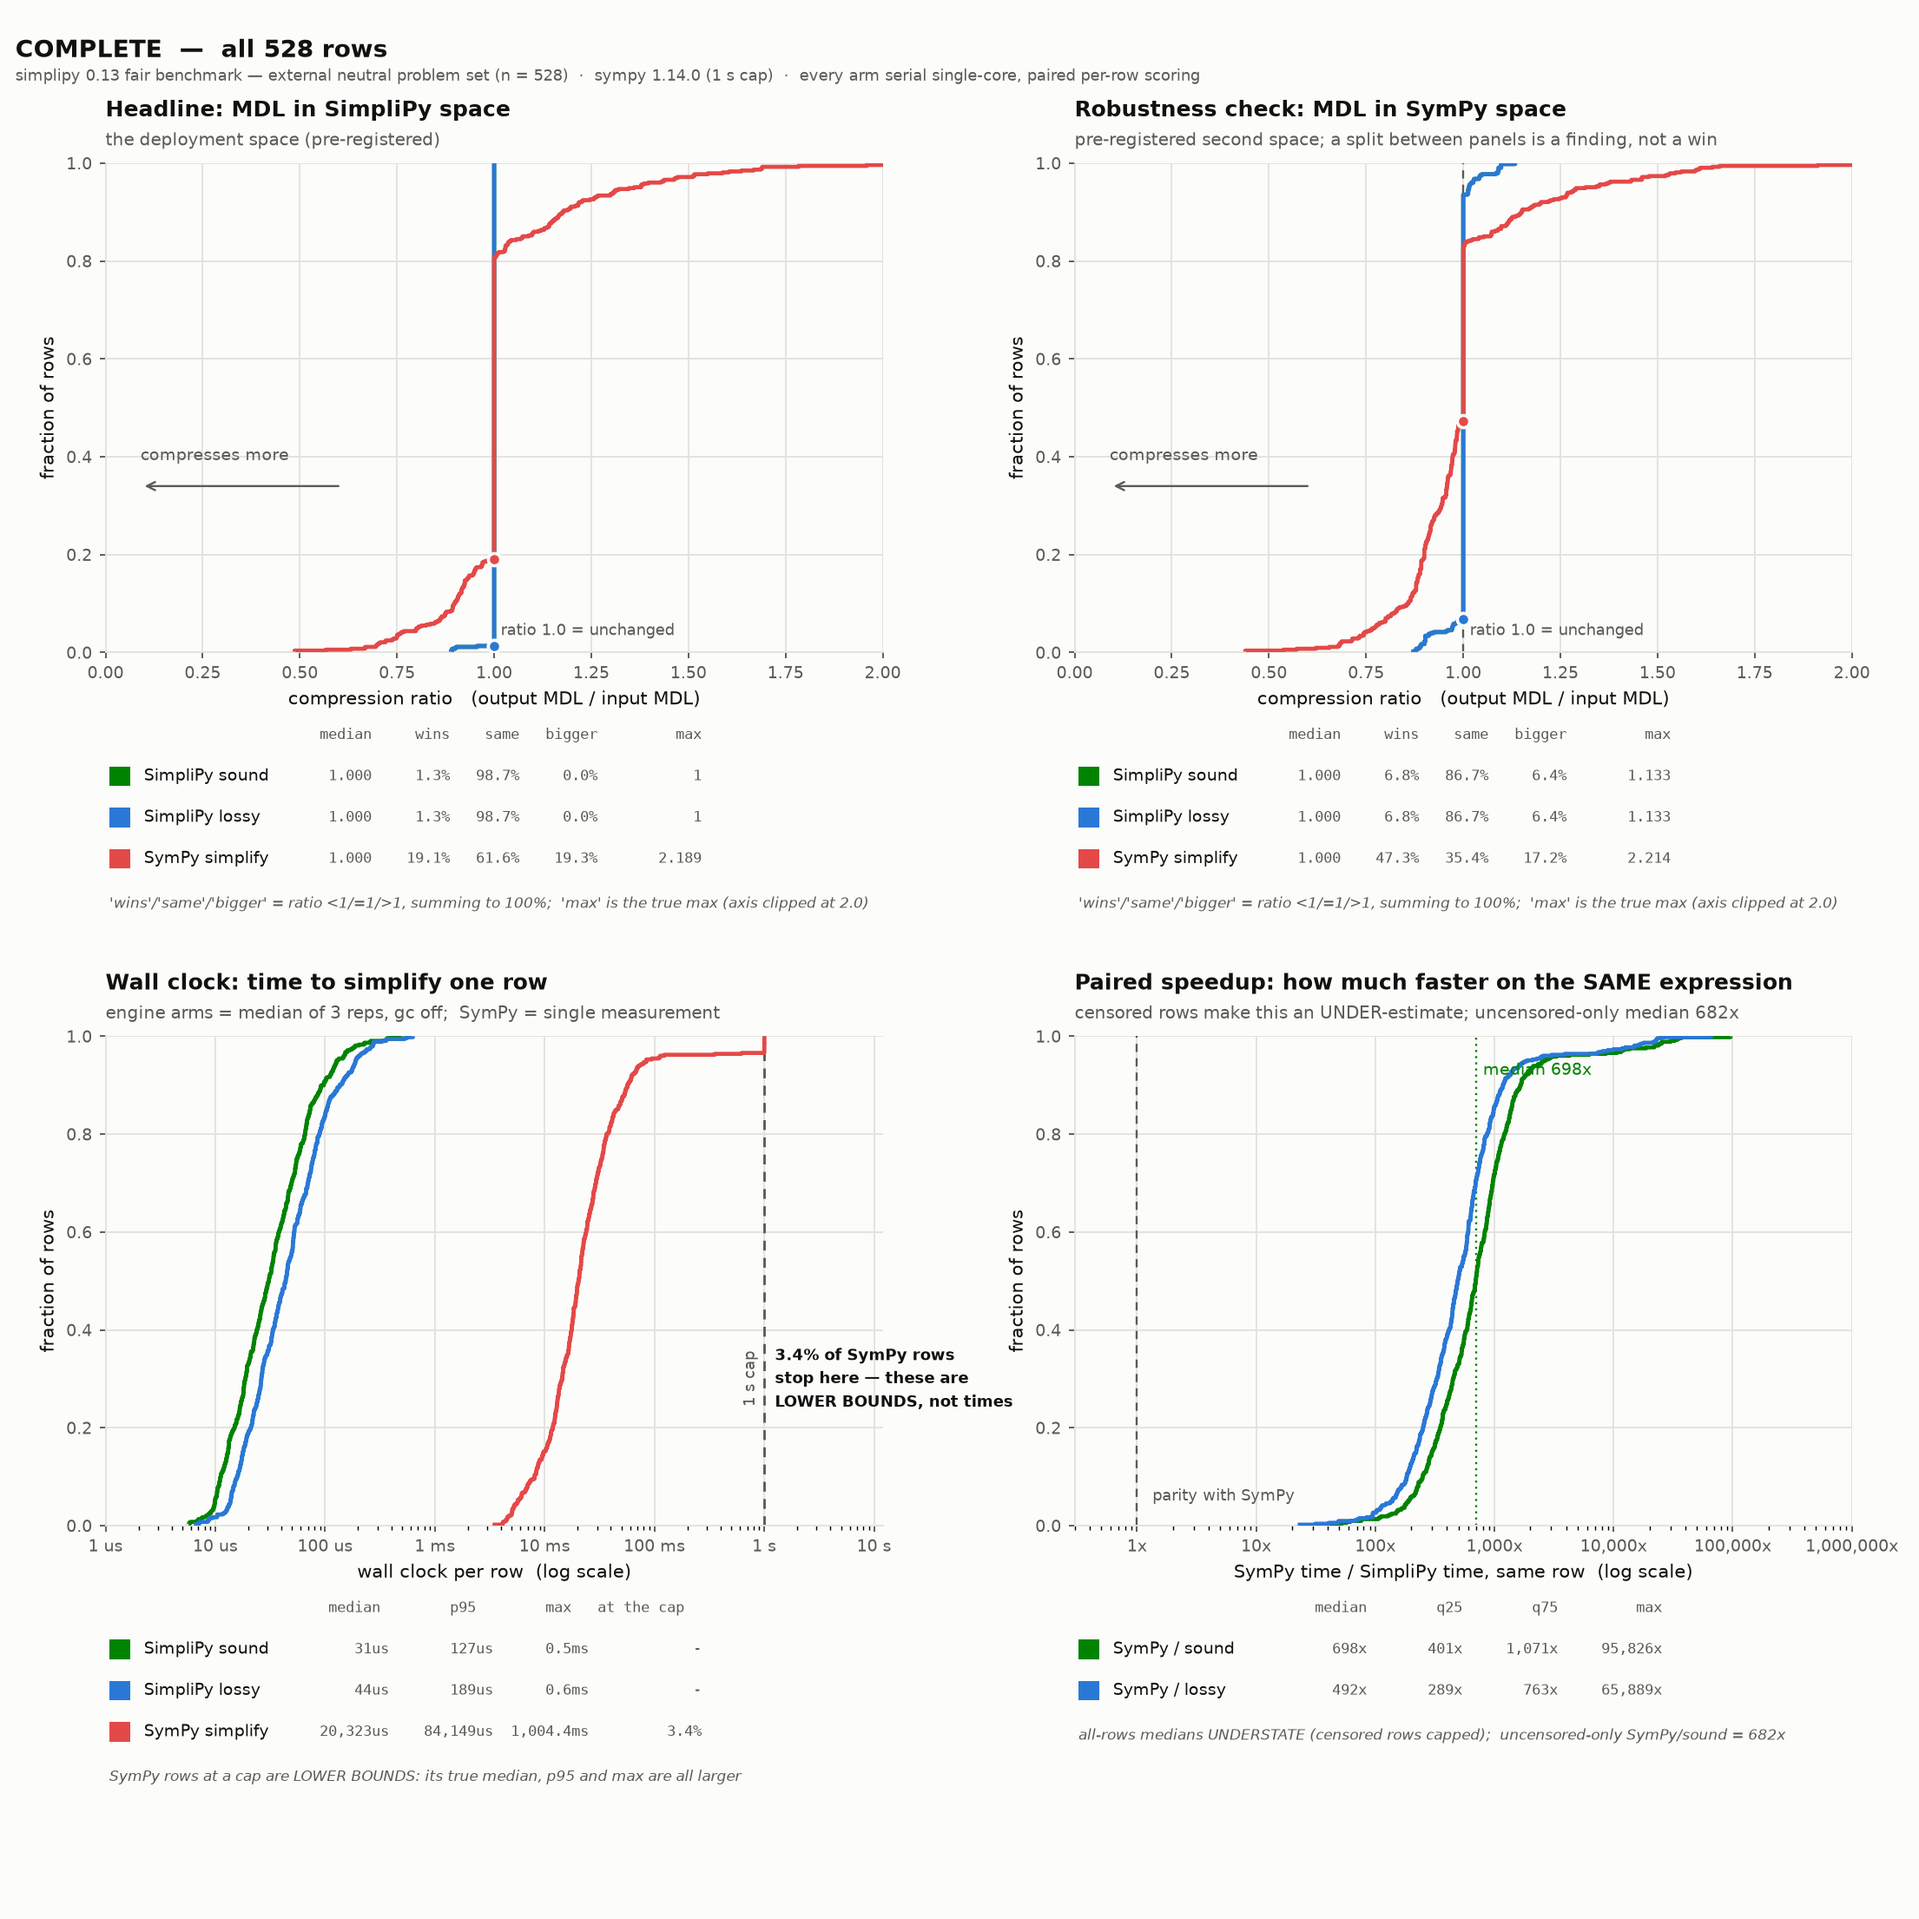
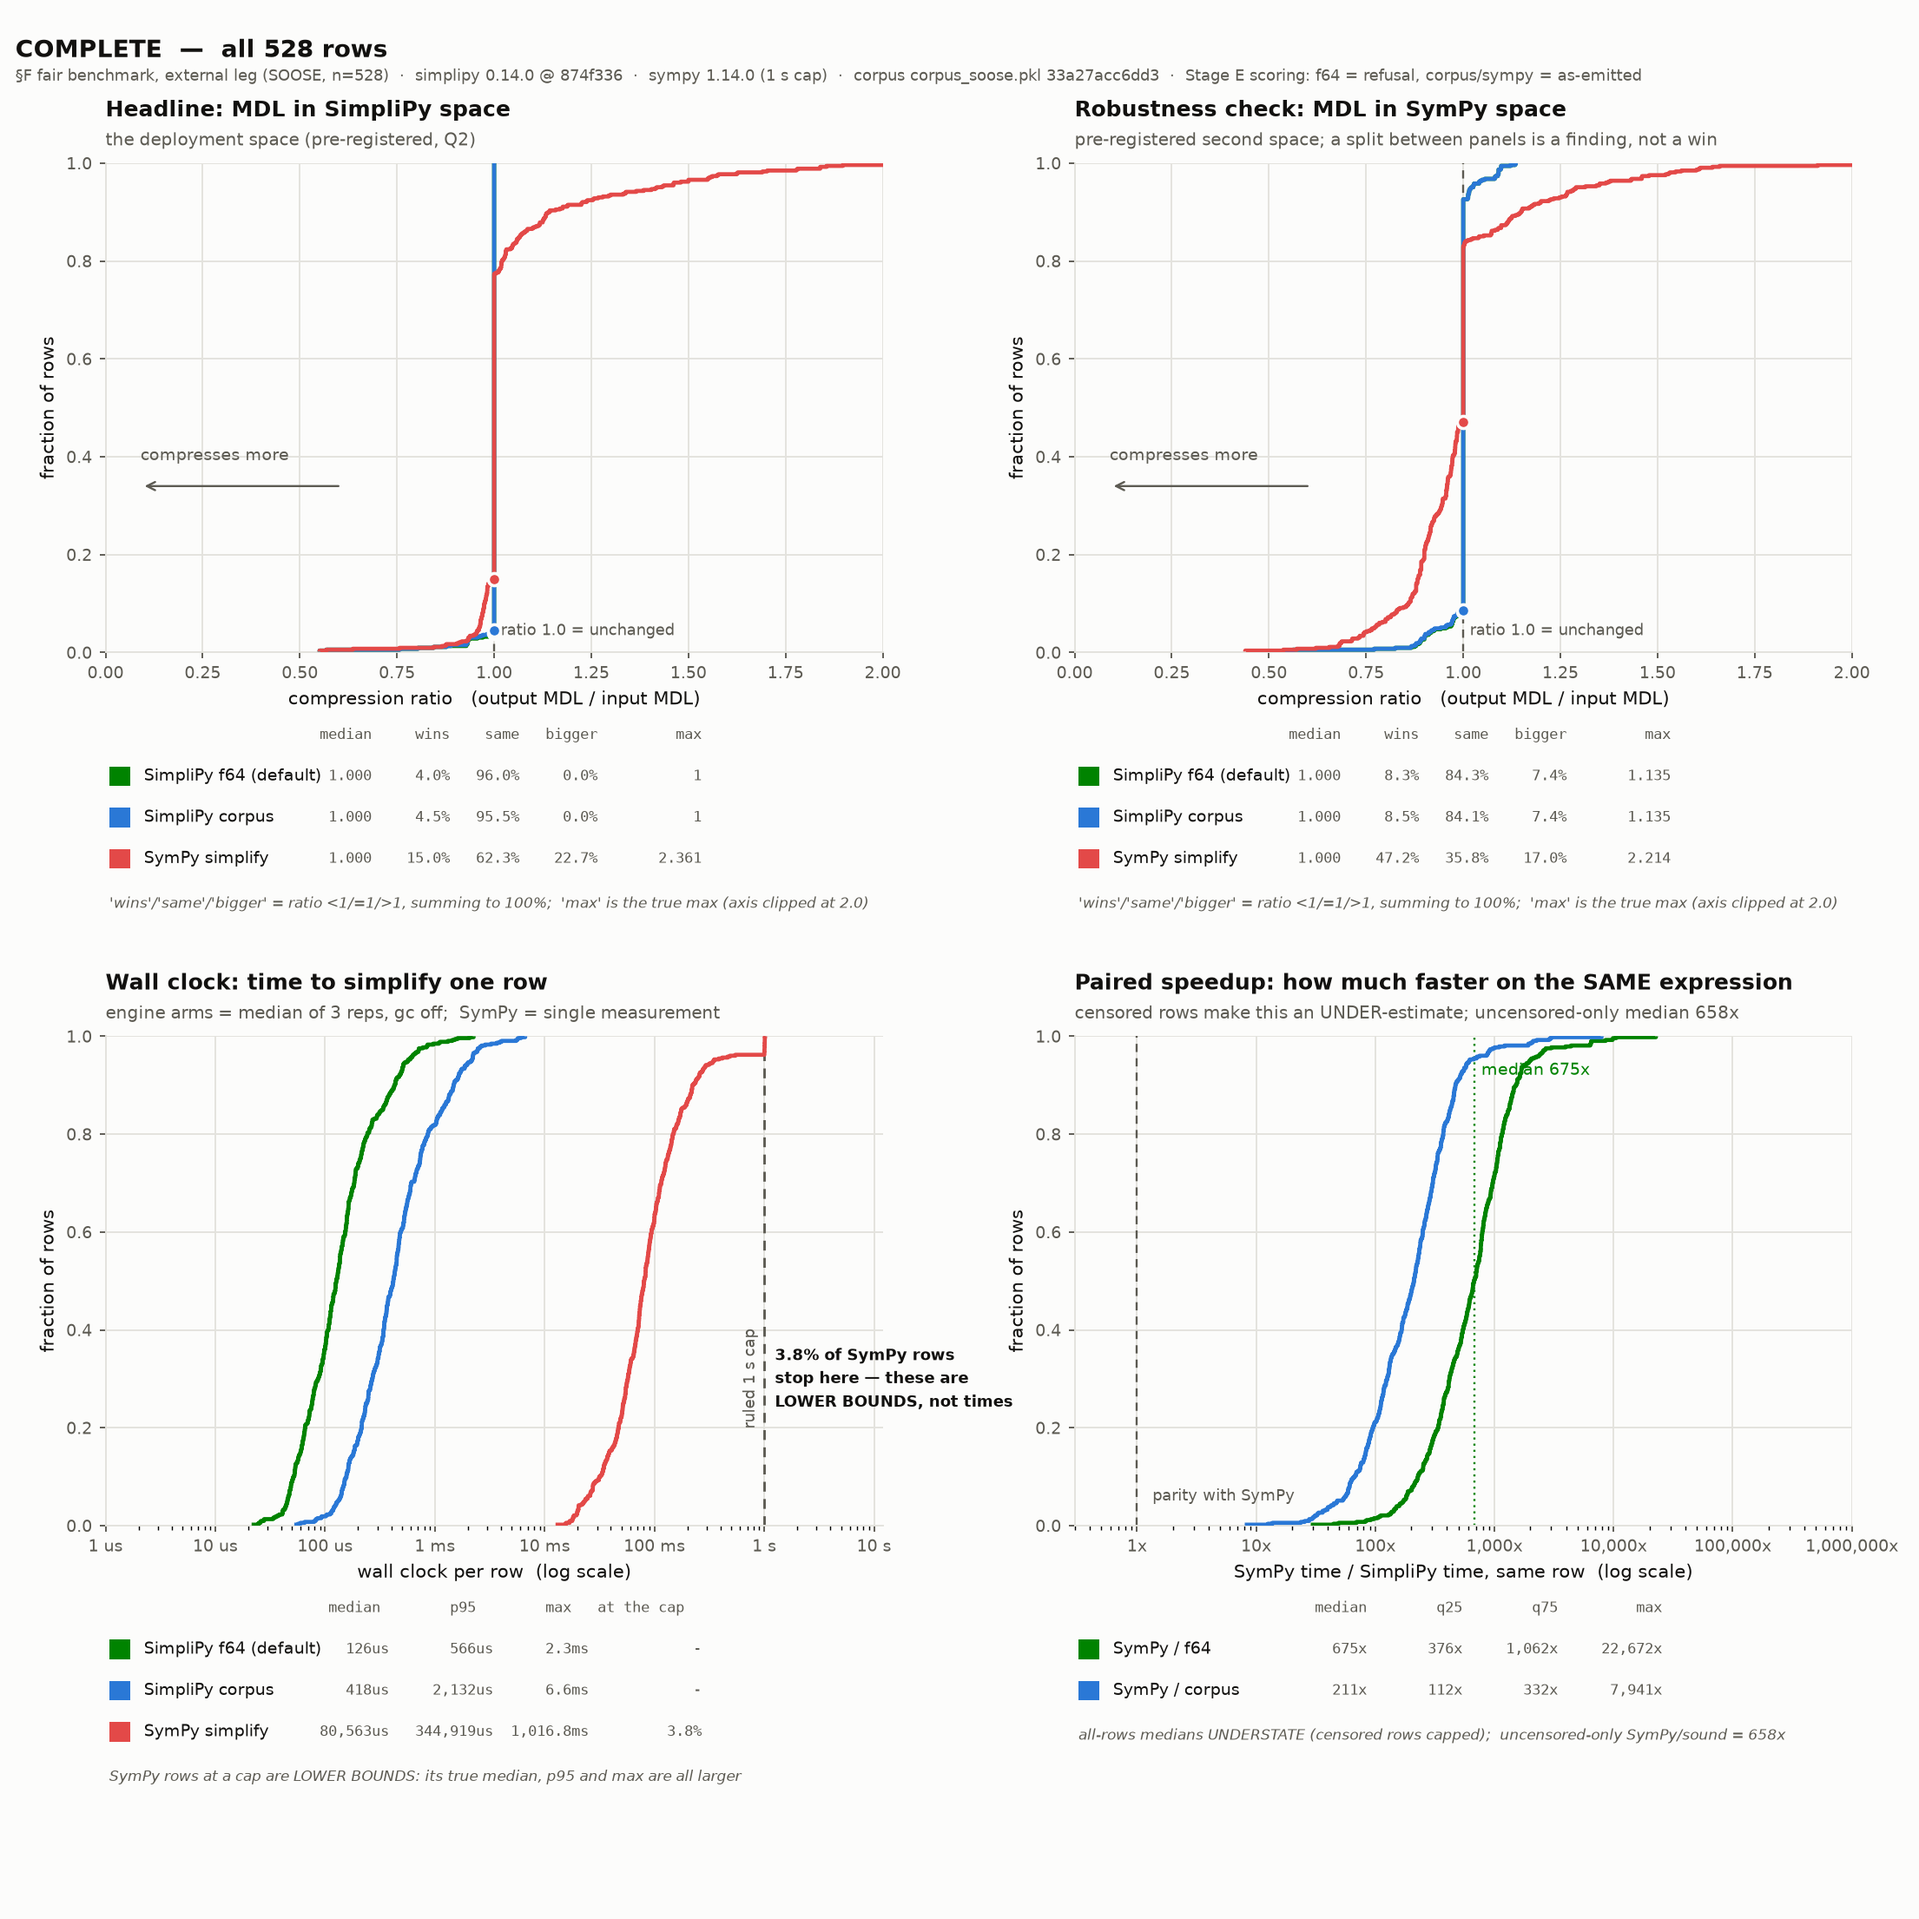
The cfg(test) callers of the mode-parameterized instrument, and rustfmt
cargo test compiles what maturin develop never does: six test-module
ac_complexity callers still used the one-argument signature. All six price
outputs for cross-arm comparison, which is the shared deployment measure --
RuleMode::Default at each. rustfmt over the soundness-round edits.

Claude-Session: https://claude.ai/code/session_01MktGcCWQs8zePRutL56sT4

diff --git a/rust/engine/ac.rs b/rust/engine/ac.rs
@@ -2625,10 +2625,17 @@ mod tests {
         // clears the clamp and cost(3) = 3 does not, so a square root prices BELOW a cube
         // root -- which is the measure telling two different operators apart, not a
         // parity being lost. (The pow1_3 spelling needs the sugar-declaring fixture.)
-        assert_eq!(sugar.ac_complexity(&t(&["pow1_3", "x0"]), RuleMode::Default), Some(15_000));
-        assert_eq!(e.ac_complexity(&t(&["rootn", "x0", "2"])), Some(14_585));
+        assert_eq!(
+            sugar.ac_complexity(&t(&["pow1_3", "x0"]), RuleMode::Default),
+            Some(15_000)
+        );
+        assert_eq!(
+            e.ac_complexity(&t(&["rootn", "x0", "2"]), RuleMode::Default),
+            Some(14_585)
+        );
         assert!(
-            e.ac_complexity(&t(&["rootn", "x0", "2"])) < e.ac_complexity(&t(&["rootn", "x0", "3"]))
+            e.ac_complexity(&t(&["rootn", "x0", "2"]), RuleMode::Default)
+                < e.ac_complexity(&t(&["rootn", "x0", "3"]), RuleMode::Default)
         );
         // The pretty infix is function-call style (x^(1/3) would claim the WRONG function).
         assert_eq!(
@@ -2896,7 +2903,7 @@ mod tests {
         );
         // Pow(3) + Mul(3) + [acos(8) + Mul(3) + inf(8) + leaf(6)] + [atan(8) + asinh(8)
         // + leaf(6)] = 53; the -1 exponent slot is a bare sign and free.
-        assert_eq!(e.ac_complexity(&lossy), Some(53_000));
+        assert_eq!(e.ac_complexity(&lossy, RuleMode::Default), Some(53_000));
 
         let partner = t(&["*", "acos", "x0", "inv", "*", "acos", "x0", "atan", "x1"]);
         assert_eq!(
@@ -3407,8 +3414,12 @@ mod tests {
                 lossy,
                 "lossy permutation variance on {expr:?}"
             );
-            let cs = e.ac_complexity(&sound).expect("sound parses");
-            let cl = e.ac_complexity(&lossy).expect("lossy parses");
+            let cs = e
+                .ac_complexity(&sound, RuleMode::Default)
+                .expect("sound parses");
+            let cl = e
+                .ac_complexity(&lossy, RuleMode::Default)
+                .expect("lossy parses");
             comp_sound += cs;
             comp_lossy += cl;
             if cl < cs {

diff --git a/rust/lib.rs b/rust/lib.rs
@@ -605,7 +605,12 @@ impl PyEngine {
     /// `engine::ac::ac_complexity_certified`): `mu(simplify(e)) <= mu(e)` is a
     /// theorem under this pricing, unlike the bare `ac_complexity`.
     #[pyo3(signature = (tokens, rule_mode="default"))]
-    fn ac_complexity_certified(&self, py: Python<'_>, tokens: Vec<String>, rule_mode: &str) -> PyResult<u64> {
+    fn ac_complexity_certified(
+        &self,
+        py: Python<'_>,
+        tokens: Vec<String>,
+        rule_mode: &str,
+    ) -> PyResult<u64> {
         ensure_ac_well_formed(&self.inner, &tokens)?;
         let mode = parse_rule_mode(rule_mode)?;
         py.detach(|| self.inner.ac_complexity_certified(&tokens, mode))
@@ -1331,7 +1336,9 @@ impl PyEngine {
             // One mu for the mark, used TWICE: as the resolved-target acceptance threshold
             // and as the scan bound. They were separate criteria (mu vs a token ceiling);
             // the ruling makes them one, so they must read the same number.
-            let mark_mu = mark.as_ref().and_then(|m| self.inner.ac_complexity(m, engine::RuleMode::Default));
+            let mark_mu = mark
+                .as_ref()
+                .and_then(|m| self.inner.ac_complexity(m, engine::RuleMode::Default));
             let accept_resolved = mark.as_ref().map(|m| {
                 let mark_c = mark_mu;
                 move |t: &[String]| {

diff --git a/rust/engine/miner.rs b/rust/engine/miner.rs
@@ -104,7 +104,10 @@ impl Engine {
         // mu is scored HERE because it is an engine-level measure (`ac_complexity` reads the
         // bare context), and the library builder only has the operator table. Bare-context mu
         // depends on no mined rule, so scoring once at build time is stable for the whole mine.
-        let mus: Vec<Option<u64>> = candidates.iter().map(|c| self.ac_complexity(c, RuleMode::Default)).collect();
+        let mus: Vec<Option<u64>> = candidates
+            .iter()
+            .map(|c| self.ac_complexity(c, RuleMode::Default))
+            .collect();
         // THE AC-CLASS QUOTIENT (2026-08-22 audit §7.1). The enumeration spells one
         // canonical class many ways -- commutative orderings, odd-sign twins, inv/abs
         // pairs -- and the scan judged every spelling: 31.6% of the variable-carrying
